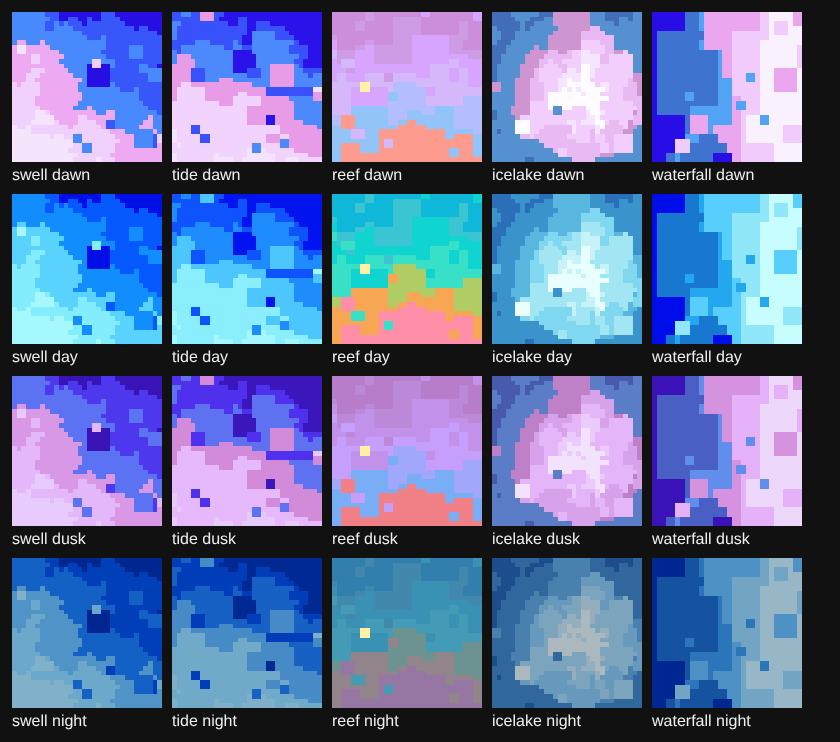
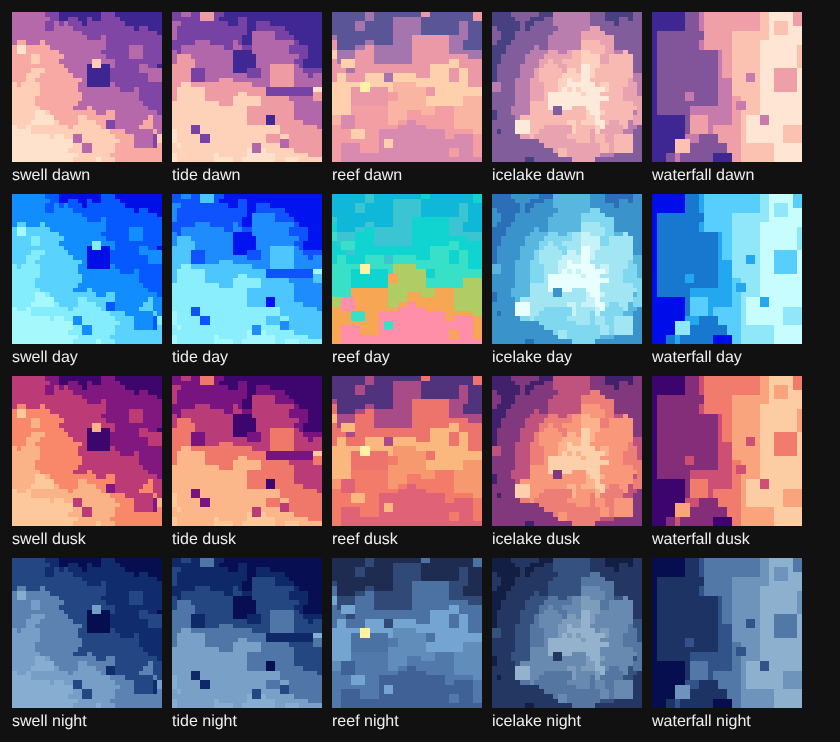
design: 晨昼昏夜贴近真实天色，编辑区默认静止，生日不含年份改用月日选择
- 晨昏夜按每阶明暗位置对上天色渐变（晨淡紫到杏桃、昏深紫到琥珀、夜海军蓝）
- 编辑区画布默认静止，显示的就是导出帧；右上角「动起来」预览，停下回到配方帧
- 生日关掉含年份后换成月 / 日下拉，值双向带过去；平年 2 月 29 日落到 28 日
- 修复手机上日期框超出卡片；同步 DESIGN.md

Claude-Session: https://claude.ai/code/session_01BKBssyXchk3dacvACcwCBt

diff --git a/design/proto-engine.js b/design/proto-engine.js
@@ -166,6 +166,31 @@
     }
     return hex;
   }
+  // 真实天色（暗 → 亮，OKLCH）：
+  // 晨：靛紫的残夜 → 淡玫瑰 → 杏桃色的地平线，整体偏亮、对比柔和
+  // 昏：深紫 → 玫红 → 琥珀橙，饱和度最高
+  // 夜：深海军蓝 → 灰蓝 → 月光下的冷灰蓝，整体压暗、降饱和
+  const SKY = {
+    dawn: { k: 0.62, warm: true, stops: [[0.34, 0.09, 285], [0.66, 0.09, 340], [0.93, 0.065, 60]] },
+    dusk: { k: 0.68, warm: true, stops: [[0.24, 0.12, 300], [0.56, 0.17, 5], [0.84, 0.14, 62]] },
+    night: { k: 0.72, warm: false, stops: [[0.14, 0.05, 268], [0.34, 0.08, 260], [0.66, 0.06, 245]] },
+  };
+  function skyAt(stops, r, warm) {
+    const t = Math.max(0, Math.min(1, r)) * (stops.length - 1), k = Math.min(stops.length - 2, Math.floor(t));
+    return (warm ? mixWarm : mixLab)(stops[k], stops[k + 1], t - k);
+  }
+  function variantPalette(pal, kind) {
+    const sky = SKY[kind];
+    if (!sky) return pal.slice();
+    const lch = pal.map(hexToOklch), Ls = lch.map((c) => c[0]);
+    const lo = Math.min(...Ls), hi = Math.max(...Ls);
+    return lch.map((c) => {
+      const target = skyAt(sky.stops, hi > lo ? (c[0] - lo) / (hi - lo) : 0.5, sky.warm);
+      // 色相直接取天色（地平线就该是杏色 / 琥珀色），亮度和饱和度保留一部分原画面
+      return oklchToHex([c[0] + (target[0] - c[0]) * sky.k, c[1] + (target[1] - c[1]) * sky.k, target[2]]);
+    });
+  }
+
   // 界面配色：从当前画面推出。dark 用最深色阶做深底；light 用浅底、最深色阶做强调色
   function uiTokens(pal, mode) {
     let darkest = pal[0], lightest = pal[0];
@@ -297,7 +322,7 @@
     else if (scene.times && scene.times[v] && n === scene.steps) pal = scene.times[v].slice();
     else {
       pal = scene.pal && n === scene.pal.length ? scene.pal.slice() : ramp(scene.pal || scene.anchors, n);
-      if (v !== 'day') pal = pal.map((h) => variantColor(h, v));
+      if (v !== 'day') pal = variantPalette(pal, v);
     }
     if (o.hue) pal = pal.map((h) => hueRotate(h, o.hue));
     if (o.invert) pal.reverse();
@@ -919,7 +944,7 @@
   // ---------- 字体 ----------
   // 中文像素字体：Fusion Pixel 12px 比例 zh_hans 的子集（OFL-1.1）。
   // Fusion Pixel 声明了保留字体名，子集属于修改版，因此改名为 "PixTides Pixel" 后内嵌。
[2 lines of base64/hex data omitted]
   function injectFont() {
     if (typeof document === 'undefined' || FONT_B64.indexOf('__') === 0) return;
     const st = document.createElement('style');

diff --git a/design/home.html b/design/home.html
@@ -64,6 +64,12 @@ input[type=range]::-moz-range-thumb{width:16px;height:16px;background:var(--acce
 input[type=range]:disabled{opacity:.35}
 input[type=text],input[type=date]{width:100%;min-height:44px;padding:0 12px;border-radius:0;background:var(--raise);border:2px solid var(--line);font-size:16px}
 input[type=text]::placeholder{color:var(--muted)}
+/* iOS 的日期框有自带的最小宽度，会撑出卡片：去掉原生外观，宽度跟随容器 */
+input[type=date]{display:block;min-width:0;max-width:100%;-webkit-appearance:none;appearance:none;text-align:left;line-height:40px}
+input[type=date]::-webkit-date-and-time-value{text-align:left}
+select{width:100%;min-width:0;min-height:44px;padding:0 10px;border-radius:0;background:var(--raise);color:var(--fg);border:2px solid var(--line);font-size:16px;-webkit-appearance:none;appearance:none}
+.md-row{display:grid;grid-template-columns:1fr 1fr;gap:8px;min-width:0}
+.mine-form{min-width:0}
 .switch{position:relative;display:inline-block;width:48px;height:28px;flex:none}
 .switch input{position:absolute;inset:0;opacity:0;margin:0;cursor:pointer}
 .switch span{position:absolute;inset:0;background:var(--bg);border:2px solid var(--line);pointer-events:none}
@@ -120,6 +126,8 @@ html[lang=en] .seg button{font-family:var(--f-pixel);font-size:12px}
 .swipe-hint{position:absolute;left:50%;bottom:8px;transform:translateX(-50%);white-space:nowrap;font-family:var(--f-zh);font-size:12px;color:var(--fg);background:var(--bg);padding:2px 8px;pointer-events:none}
 html[lang=en] .swipe-hint{font-family:var(--f-pixel)}
 .rare-tag{position:absolute;left:8px;top:8px}
+.play{position:absolute;right:8px;top:8px;min-height:32px;font-family:var(--f-zh);font-size:12px;background:var(--bg);color:var(--fg);border-color:var(--bg)}
+html[lang=en] .play{font-family:var(--f-pixel)}
 .namebar{display:flex;align-items:center;gap:8px;width:100%;max-width:720px;justify-self:center}
 .name{flex:1;min-width:0;display:grid;gap:2px;text-align:center}
 .name b{font-family:var(--f-zh);font-weight:400;font-size:24px;line-height:1;white-space:nowrap;overflow:hidden;text-overflow:ellipsis}
@@ -281,6 +289,7 @@ html[lang=en] #toast{font-family:var(--f-body);font-size:13px}
       <div class="canvas-box" id="box">
         <canvas id="view" aria-label="当前画面"></canvas>
         <span class="badge rare-tag" id="rareTag" hidden>稀有 · 鲸尾</span>
+        <button class="chip play" id="play" type="button">▶ 动起来</button>
         <span class="swipe-hint" id="swipeHint" data-i="swipe">← 左右滑动换画面 →</span>
       </div>
     </div>
@@ -350,7 +359,6 @@ html[lang=en] #toast{font-family:var(--f-body);font-size:13px}
           </span>
         </div>
         <div class="row"><span class="zh" data-i="invert">深浅反转</span><label class="switch"><input type="checkbox" id="invert" aria-label="深浅反转"><span></span></label></div>
-        <div class="row"><span class="zh" data-i="motion">画布动效</span><label class="switch"><input type="checkbox" id="motion" checked aria-label="画布动效"><span></span></label></div>
         <div class="row"><span class="zh" data-i="rareDebug">刷一张稀有的（调试）</span><button class="btn" id="findRare" type="button" style="min-height:36px">1/512</button></div>
       </div>
     </details>
@@ -381,6 +389,10 @@ html[lang=en] #toast{font-family:var(--f-body);font-size:13px}
         <form class="mine-form" id="mineForm">
           <input type="text" id="mineText" maxlength="60" autocomplete="off" placeholder="像素潮" aria-label="名字或一句话">
           <input type="date" id="mineDate" value="2000-01-01" aria-label="生日" hidden>
+          <div class="md-row" id="mdRow" hidden>
+            <select id="mineMonth" aria-label="月"></select>
+            <select id="mineDay" aria-label="日"></select>
+          </div>
           <div class="row" id="yearRow" hidden><span class="zh" data-i="withYear">含年份</span><label class="switch"><input type="checkbox" id="mineYear" checked aria-label="含年份"><span></span></label></div>
           <p class="hint" id="yearHint" hidden></p>
           <button class="btn primary" type="submit" data-i="make">生成</button>
@@ -489,8 +501,8 @@ html[lang=en] #toast{font-family:var(--f-body);font-size:13px}
       palette: '配色', hue: '色相整体旋转', avatar: '头像预览', circle: '圆形', rounded: '圆角', square: '方',
       pairTitle: '一对头像', pairExport: '导出一对', pairHint: '两张并排时浪是连着的，适合情侣或好友各用一张。',
       more: '更多', angle: '渐变方向', amp: '浪线起伏', terrace: '平台长短', bands: '色带数量', dots: '散落方块 · 密度', dotMax: '散落方块 · 最大',
-      pairRatio: '散落方块 · 成对比例', sil: '剪影（月亮）', silNext: '换一个', invert: '深浅反转', motion: '画布动效', rareDebug: '刷一张稀有的（调试）',
-      export: '导出 PNG / SVG', exportHint: '导出的是这张图的静止画面，与编号一一对应。', exTitle: '导出', res: '分辨率', shape: '形状', safe: '安全区参考线',
+      pairRatio: '散落方块 · 成对比例', sil: '剪影（月亮）', silNext: '换一个', invert: '深浅反转', play: '▶ 动起来', pause: '❚❚ 停下', rareDebug: '刷一张稀有的（调试）',
+      export: '导出 PNG / SVG', exportHint: '画布静止时显示的就是导出的画面，与编号一一对应；「动起来」只是预览浪的样子。', exTitle: '导出', res: '分辨率', shape: '形状', safe: '安全区参考线',
       format: '格式', download: '下载', longPress: '长按图片保存到相册。', close: '关闭',
       todayTitle: '今日一张', todayNote: '按你所在地的日期，同一天全世界看到同一张。每天来看一眼，日历上就多一格。', openEditor: '在编辑器里打开',
       mineTitle: '我的海', mineNote: '先选一个画面（或交给「自动」），再输入名字、一句话或生日。同样的输入永远得到同一张，换台手机也一样。', byName: '名字', byBirthday: '生日', byCombo: '名字 + 生日', withYear: '含年份', make: '生成', originIs: '来自 ',
@@ -517,8 +529,8 @@ html[lang=en] #toast{font-family:var(--f-body);font-size:13px}
       palette: 'Colors', hue: 'Rotate hue', avatar: 'Avatar preview', circle: 'Circle', rounded: 'Rounded', square: 'Square',
       pairTitle: 'Matching pair', pairExport: 'Export pair', pairHint: 'Side by side, the waves join up. One for you, one for a friend.',
       more: 'More', angle: 'Direction', amp: 'Wave height', terrace: 'Terrace length', bands: 'Bands', dots: 'Scatter · density', dotMax: 'Scatter · max size',
-      pairRatio: 'Scatter · pairs', sil: 'Silhouette (moon)', silNext: 'Another', invert: 'Invert light/dark', motion: 'Canvas motion', rareDebug: 'Find a rare one (debug)',
-      export: 'Export PNG / SVG', exportHint: 'Exports the still frame that matches this picture code.', exTitle: 'Export', res: 'Resolution', shape: 'Shape', safe: 'Safe-area guide',
+      pairRatio: 'Scatter · pairs', sil: 'Silhouette (moon)', silNext: 'Another', invert: 'Invert light/dark', play: '▶ Animate', pause: '❚❚ Stop', rareDebug: 'Find a rare one (debug)',
+      export: 'Export PNG / SVG', exportHint: 'The still canvas is exactly what you export and what the code stands for; “Animate” only previews the waves.', exTitle: 'Export', res: 'Resolution', shape: 'Shape', safe: 'Safe-area guide',
       format: 'Format', download: 'Download', longPress: 'Press and hold the image to save it.', close: 'Close',
       todayTitle: 'Picture of the day', todayNote: 'By your local date, everyone sees the same picture on the same day. Visit daily to fill your calendar.', openEditor: 'Open in editor',
       mineTitle: 'Your sea', mineNote: 'Pick a scene (or leave it on Auto), then type a name or phrase, or pick a birthday. The same input always gives the same picture, on any device.', byName: 'Name', byBirthday: 'Birthday', byCombo: 'Name + birthday', withYear: 'Include year', make: 'Make', originIs: 'From ',
@@ -655,7 +667,7 @@ html[lang=en] #toast{font-family:var(--f-body);font-size:13px}
   const S = {
     scene: heroPick.scene, seed: heroPick.seed, grid: heroGrain, ratio: RATIOS[0], variant: heroTime, hue: 0,
     angle: null, amp: null, terrace: 1, bands: null, dots: null, dotMax: 5, pair: 0.22, silhouette: true, silSeed: 0, invert: false,
-    motion: true, tier: '4K', shape: 'square', fmt: 'png', safe: false,
+    motion: false, tier: '4K', shape: 'square', fmt: 'png', safe: false,
     origin: { kind: 'hero', code: P.shortCode(heroPick.scene, heroPick.seed), day: heroDay }, edited: false,
   };
   const view = new P.View($('view'));
@@ -765,7 +777,8 @@ html[lang=en] #toast{font-family:var(--f-body);font-size:13px}
     $('silRow').hidden = sc.silhouette !== 'moon';
     $('sil').checked = S.silhouette; $('silNext').disabled = !S.silhouette;
     $('invert').checked = S.invert;
-    $('motion').checked = S.motion; $('motion').disabled = reduce.matches;
+    $('play').textContent = S.motion ? t('pause') : t('play');
+    $('play').hidden = reduce.matches;
   }
   function setScene(sc) {
     S.scene = sc;
@@ -792,7 +805,14 @@ html[lang=en] #toast{font-family:var(--f-body);font-size:13px}
   $('sil').addEventListener('change', (e) => { S.silhouette = e.target.checked; touched(); rebuild(); });
   $('silNext').addEventListener('click', () => { S.silSeed++; touched(); rebuild(300); });
   $('invert').addEventListener('change', (e) => { S.invert = e.target.checked; touched(); rebuild(400); });
-  $('motion').addEventListener('change', (e) => { S.motion = e.target.checked; kick(); });
+  // 默认静止：看到的就是这张图的配方帧，和导出、编号一致；点"动起来"预览浪，停下时回到配方帧
+  $('play').addEventListener('click', (e) => {
+    e.stopPropagation();
+    S.motion = !S.motion;
+    if (!S.motion) { editTime = 0; sim.setTime(0); view.render(); drawAvatars(); }
+    syncUi();
+    kick();
+  });
   $('findRare').addEventListener('click', () => {
     const s = P.findRare(S.scene, (Math.random() * 4294967296) >>> 0);
     if (s == null) { toast(t('rareNone')); return; }
@@ -992,7 +1012,9 @@ html[lang=en] #toast{font-family:var(--f-body);font-size:13px}
   })();
   function makeMine() {
     const typed = ($('mineText').value || $('mineText').placeholder).trim();
-    const key = P.normalizeDate($('mineDate').value) || '2000-01-01', withYear = $('mineYear').checked;
+    const withYear = $('mineYear').checked;
+    // 不含年份时用 2000 年（闰年，2 月 29 日也能选），只取月日参与计算
+    const key = withYear ? P.normalizeDate($('mineDate').value) || '2000-01-01' : `2000-${$('mineMonth').value}-${$('mineDay').value}`;
     let r, label, explain;
     if (mineMode === 'name') {
       r = P.namePick(typed, SEA, mineScene);
@@ -1025,13 +1047,44 @@ html[lang=en] #toast{font-family:var(--f-body);font-size:13px}
     mineMode = b.dataset.v;
     press($('mineTabs'), mineMode);
     $('mineText').hidden = mineMode === 'birthday';
-    $('mineDate').hidden = mineMode === 'name';
     $('yearRow').hidden = mineMode === 'name';
+    syncDateInputs();
     makeMine();
   });
   $('mineForm').addEventListener('submit', (e) => { e.preventDefault(); makeMine(); });
-  $('mineYear').addEventListener('change', makeMine);
+  // 月 / 日下拉：日数随月份变化
+  (function fillMonths() {
+    $('mineMonth').innerHTML = Array.from({ length: 12 }, (_, i) => `<option value="${String(i + 1).padStart(2, '0')}">${i + 1}</option>`).join('');
+  })();
+  function fillDays(keep) {
+    const n = new Date(2000, +$('mineMonth').value, 0).getDate();
+    $('mineDay').innerHTML = Array.from({ length: n }, (_, i) => `<option value="${String(i + 1).padStart(2, '0')}">${i + 1}</option>`).join('');
+    $('mineDay').value = String(Math.min(+keep || 1, n)).padStart(2, '0');
+  }
+  function syncDateInputs() {
+    const needDate = mineMode !== 'name', withYear = $('mineYear').checked;
+    $('mineDate').hidden = !(needDate && withYear);
+    $('mdRow').hidden = !(needDate && !withYear);
+    const monthWord = lang === 'zh' ? '月' : '', dayWord = lang === 'zh' ? '日' : '';
+    $('mineMonth').querySelectorAll('option').forEach((o, i) => { o.textContent = i + 1 + monthWord; });
+    $('mineDay').querySelectorAll('option').forEach((o, i) => { o.textContent = i + 1 + dayWord; });
+  }
+  $('mineYear').addEventListener('change', () => {
+    const full = P.normalizeDate($('mineDate').value) || '2000-01-01';
+    if ($('mineYear').checked) { // 打开：把月日放回带年份的日期里，年份保持原来的
+      const y = full.slice(0, 4), m = $('mineMonth').value, last = new Date(+y, +m, 0).getDate(); // 平年没有 2 月 29 日，就落到 28 日
+      $('mineDate').value = `${y}-${m}-${String(Math.min(+$('mineDay').value, last)).padStart(2, '0')}`;
+    } else { // 关闭：日期框换成月 / 日，值跟着带过来
+      $('mineMonth').value = full.slice(5, 7);
+      fillDays(full.slice(8, 10));
+    }
+    syncDateInputs();
+    makeMine();
+  });
   $('mineDate').addEventListener('change', makeMine);
+  $('mineMonth').addEventListener('change', () => { fillDays($('mineDay').value); syncDateInputs(); makeMine(); });
+  $('mineDay').addEventListener('change', makeMine);
+  $('mineMonth').value = '01'; fillDays('01');
   $('mineOpen').addEventListener('click', () => {
     if (!mineResult) return;
     openInEditor({ scene: mineResult.scene, seed: mineResult.seed, ratio: RATIOS[0], variant: 'day' },
@@ -1122,6 +1175,7 @@ html[lang=en] #toast{font-family:var(--f-body);font-size:13px}
     if (sim) syncUi();
     updateDayPlate();
     if (!$('calSheet').hidden) drawCal();
+    syncDateInputs();
     makeMine();
     if (!$('sheet').hidden) syncExport();
   }

diff --git a/docs/DESIGN.md b/docs/DESIGN.md
@@ -154,7 +154,7 @@ export default defineScene({
 | 散落方块 | 极少数方块偶尔熄灭，在附近半格处重新出现 | 画面"呼吸" |
 | 剪影 | 不动 | 稳定的视觉锚点 |
 
-- **首页**：全屏浅滩，每一浪随机生成；按访问者本地时间切换晨 / 昼 / 昏 / 夜色板（晨 5–9 点、昼 10–16 点、昏 17–19 点、夜 20 点–次日 4 点），切换用"逐格溶解"（随机顺序把格子换成新颜色，约 1 秒）。第一屏画的就是当天的今日一张。浪是时间的纯函数：时间取从 2026-01-01 UTC 起算的秒数（连续不跳），所以同一时刻、同样大小的屏幕，全世界看到的是同一片浪；色板仍按各自的本地时段。第一屏的粒度和编辑区是同一组 8 档（12–128 格），点按钮循环切换，记在本机。编辑区没改动时配色和粒度都跟随第一屏，用户在编辑区自己改了就不再跟随；编辑区始终显示这张图的来源（来自今日一张 / 我的海 · 「名字」…），改过之后变成"改自 …"。
+- **首页**：全屏浅滩，每一浪随机生成；按访问者本地时间切换晨 / 昼 / 昏 / 夜色板（晨 5–9 点、昼 10–16 点、昏 17–19 点、夜 20 点–次日 4 点），切换用"逐格溶解"（随机顺序把格子换成新颜色，约 1 秒）。第一屏画的就是当天的今日一张。浪是时间的纯函数：时间取从 2026-01-01 UTC 起算的秒数（连续不跳），所以同一时刻、同样大小的屏幕，全世界看到的是同一片浪；色板仍按各自的本地时段。第一屏的粒度和编辑区是同一组 8 档（12–128 格），点按钮循环切换，记在本机。编辑区没改动时配色和粒度都跟随第一屏，用户在编辑区自己改了就不再跟随；编辑区始终显示这张图的来源（来自今日一张 / 我的海 · 「名字」…），改过之后变成"改自 …"。编辑区画布默认静止，显示的就是导出的那一帧（与编号一致）；右上角"动起来"预览浪，停下时回到这一帧。
 - **画廊卡片**：静止，悬停或按住才动。
 - **性能**：只重算变化的格子；页面不可见时暂停；系统开启"减少动态效果"时全部静止。
 - **动图导出（V2）**：无缝循环 GIF / MP4。
@@ -166,7 +166,7 @@ export default defineScene({
 | 换一张（骰子） | 常用 | 新种子；可锁定构图只换散点，或锁定配色只换构图 |
 | 像素粒度 | 常用 | 12 / 16 / 24 / 32 / 48 / 64 / 96 / 128 格，也可连续调 |
 | 画面比例 | 常用 | 1:1、9:16、9:19.5、16:9、16:10、21:9、3:4、4:5 |
-| 配色 | 常用 | 场景预设、晨 / 昼 / 昏 / 夜变体（晨昏的色相经紫、粉转向暖色，不经过绿色）、色相整体旋转、自建 2–3 锚点 |
+| 配色 | 常用 | 场景预设、晨 / 昼 / 昏 / 夜变体（贴近真实天色：晨是淡紫到杏桃色，昏是深紫到珊瑚、琥珀色，夜是海军蓝；按每一阶在色板里的明暗位置对上天色渐变，色相取天色，亮度和饱和度保留一部分原画面）、色相整体旋转、自建 2–3 锚点 |
 | 渐变方向 | 更多 | 0–359°；径向时拖拽中心点 |
 | 浪线起伏 | 更多 | 0–2 |
 | 平台长短 | 更多 | 短=碎浪，长=平静 |
